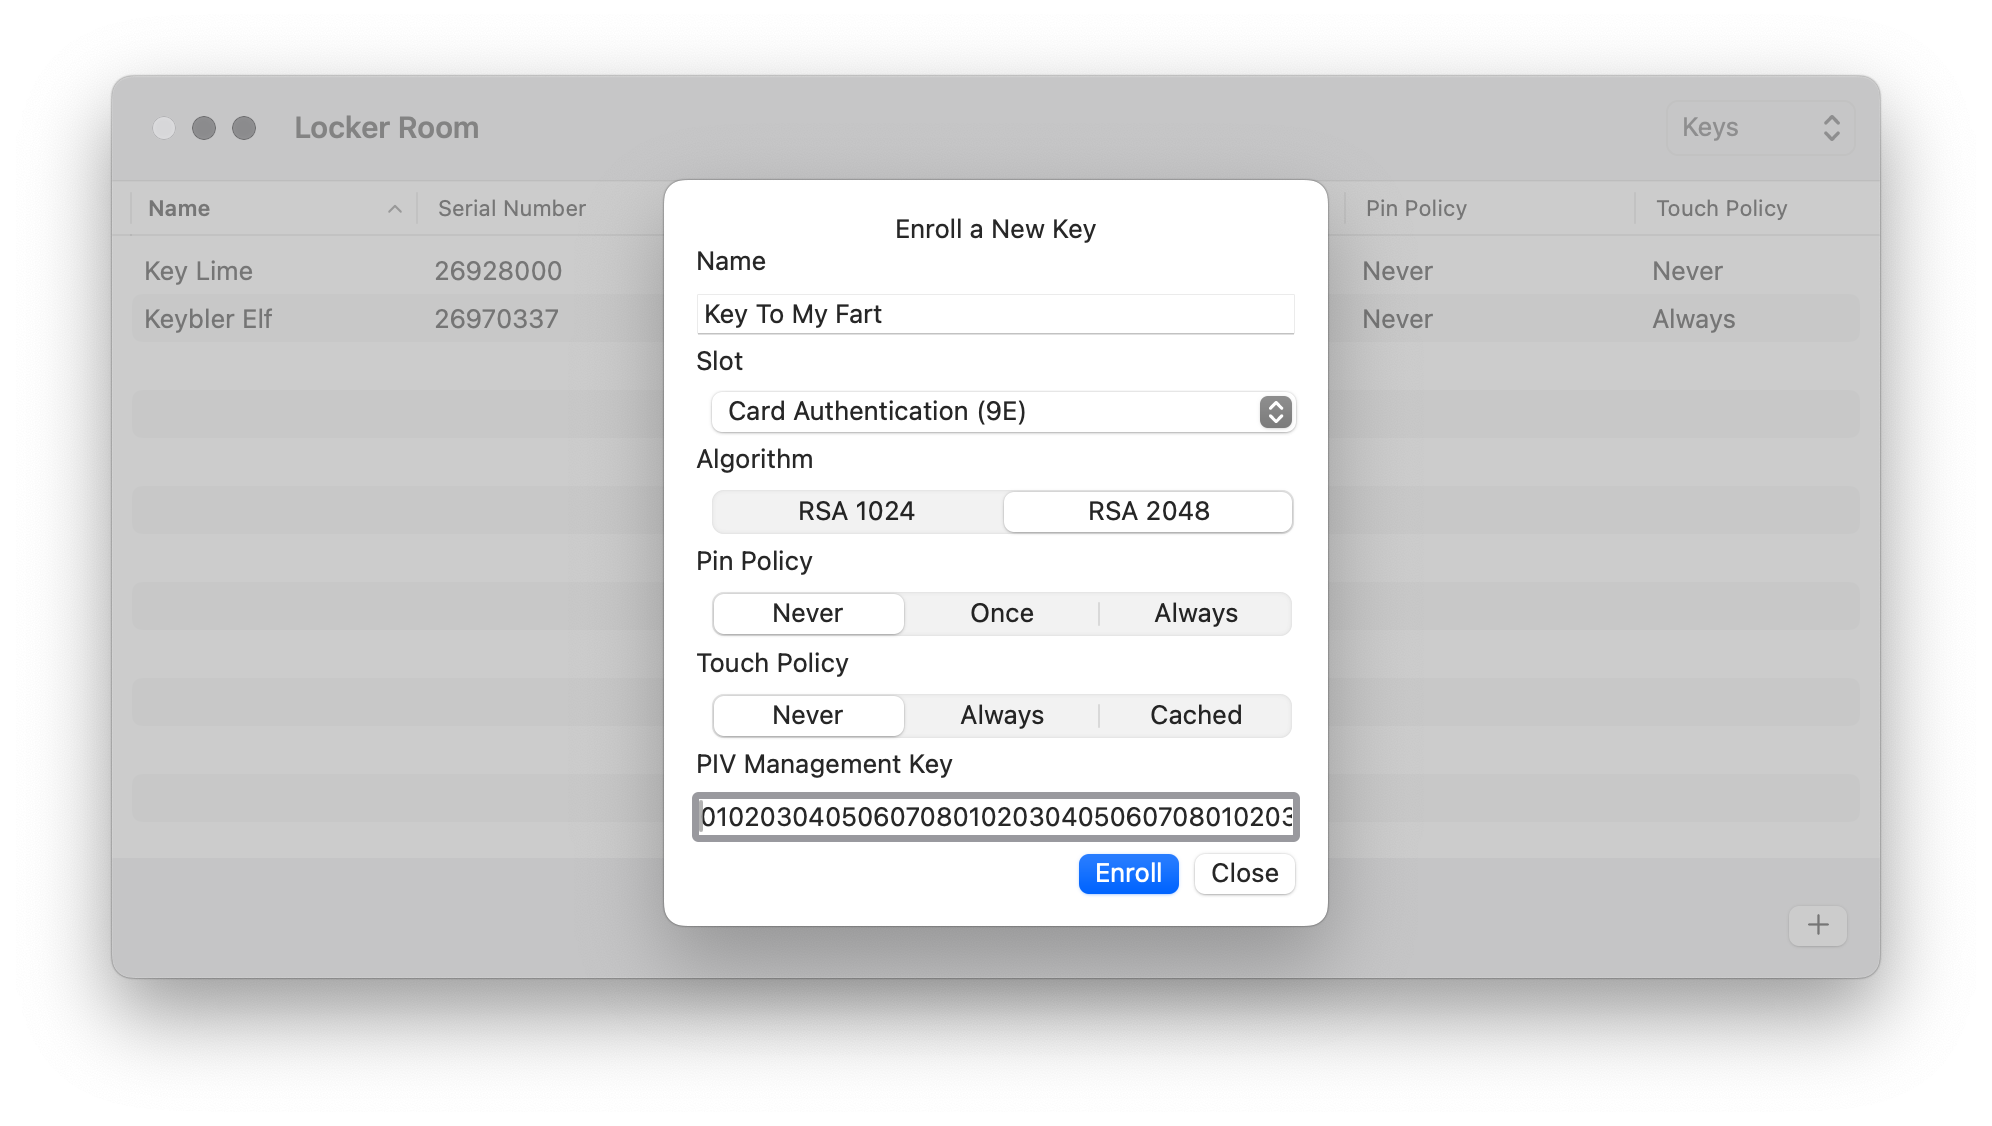
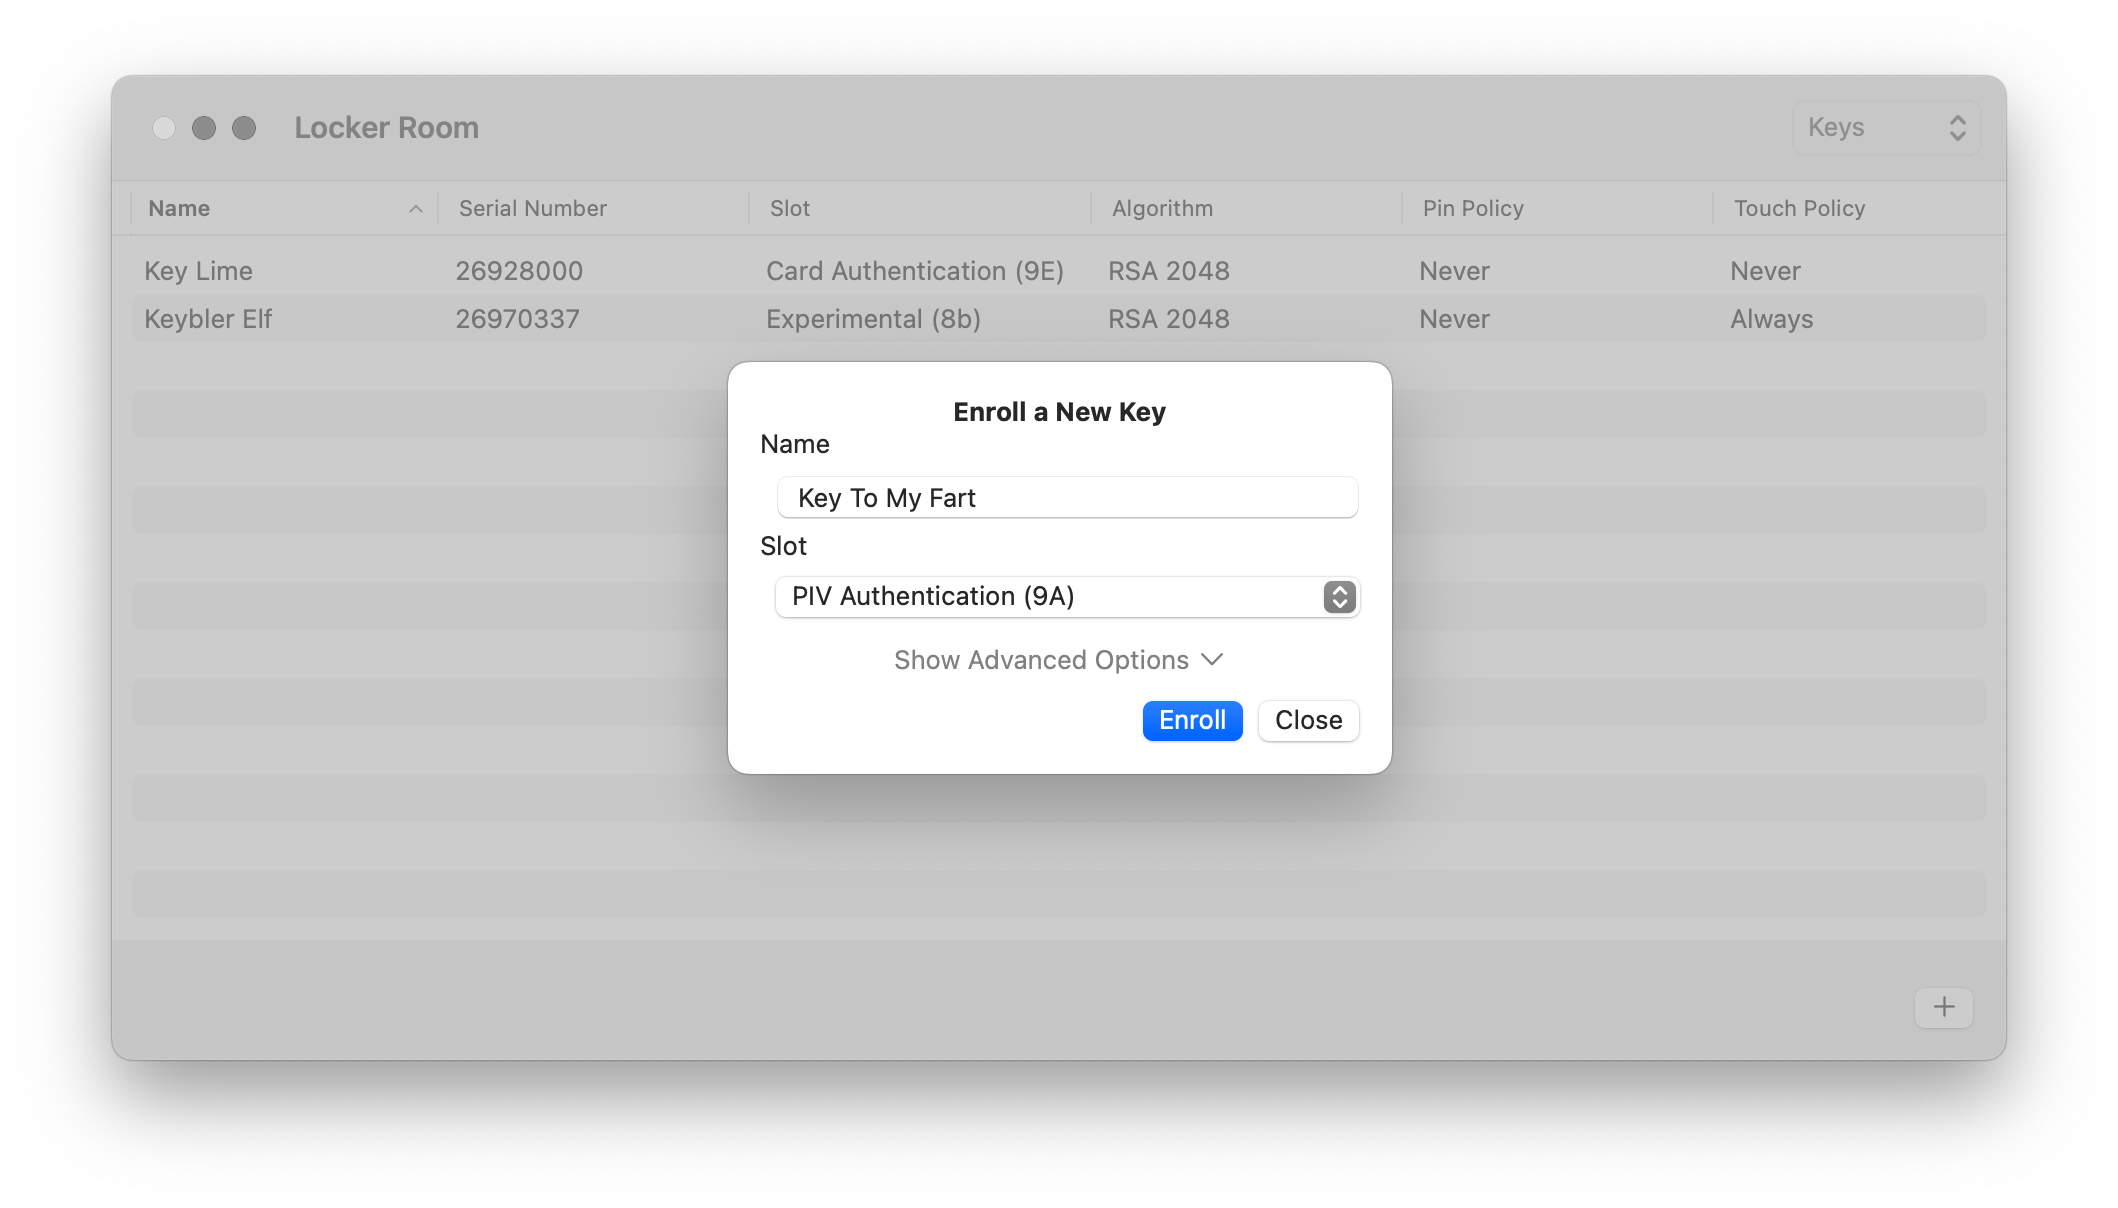
Update README with new images.

diff --git a/README.md b/README.md
@@ -18,11 +18,23 @@ While the **Lockboxes** view is selected, the plus button in the bottom-right co
 And while the **Keys** view is selected, the same plus button will instead prompt the user to enroll a new key using an external hardware device:
 ![](Images/Locker-Room-Add-Key.png)
 
-When a new lockbox is created it starts off unencrypted and a user can add files to it. There is a lock icon to the left of the lockbox name indicating its encryption state. A lockbox cannot be encrypted until at least one key has been enrolled using an external hardware device. Once a key is enrolled the external hardware device's corresponding public key is stored. The stored public key can then be used to encrypt lockboxes without the external hardware device present. By default, all enrolled key will be used when a lockbox is encrypted. A user can alternatively select specific enrolled keys to be used for encryption. Each encrypted lockbox in the **Lockboxes** view indicates which keys have been used for its encryption. 
+When a new lockbox is created it starts off unencrypted and a user can add files to it. The lock icon to the left of the lockbox name indicates whether or not it has been encrypted. A lockbox cannot be encrypted until at least one key has been enrolled using an external hardware device. Once a key is enrolled, the external hardware device's corresponding public key is stored on disk. The stored public key can then be used to encrypt lockboxes without the external hardware device present. By default, all enrolled key will be used when a lockbox is encrypted. Alternatively, a user can select specific enrolled keys to be used for encryption. Each encrypted lockbox in the **Lockboxes** view indicates which keys have been used for its encryption.
 
-To enroll a key the user must first switch to the **Keys** view and then click the plus button. A key name and PIV slot must be provided when generating the public-private key pair on the external hardware device. Advanced options for specifying the key algorithm, PIN policy, touch policy and PIV management key can be configued if needed. After the key specifications are configured, Locker Room will wait for the external hardware device to become present. Once present the key enrollment process will complete. The resulting public key is stored on disk for future encryption and the private key always remains on the external hardware device for future decryption. Newly enrolled keys will not be used to retroactively encrypt previously encrypted lockboxes and therefore the corresponding external hardware device cannot be used to decrypt previously encrypted lockboxes.
+To enroll a key the user must first switch to the **Keys** view and then click the plus button. A key name and PIV slot must be provided when generating the public-private key pair on the external hardware device. Advanced options for specifying the key algorithm, PIN policy, touch policy and PIV management key can be configued if needed:
+![](Images/Locker-Room-Add-Key-Advanced.png)
 
-A user can choose to encrypt a lockbox directly after it is created or they can choose to encrypt it later. Double-clicking an unencrypted lockbox from the list of lockboxes will prompt the user to encrypt it. And double-clicking an encrypted lockbox will prompt the user to decrypt it. Encryption does not require an external hardware device to be present because only previously enrolled keys are used. Decryption does require an external hardware device to be present because the private key stored on the external hardware device is needed for decryption. After an encrypted lockbox is selected for decryption, Locker Room will wait for an external hardware device to become present. If the lockbox was encrypted using an enrolled key corresponding to the presented external hardware device then the decryption process will complete.
+ After the key specifications are configured, Locker Room will wait for the external hardware device to become present. Once present the key enrollment process will complete. The resulting public key is stored on disk for future encryption and the private key always remains on the external hardware device for future decryption. Newly enrolled keys will not be used to retroactively encrypt previously encrypted lockboxes and therefore the corresponding external hardware device cannot be used to decrypt previously encrypted lockboxes.
+
+A user can choose to encrypt a lockbox directly after it is created or they can choose to encrypt it later. Double-clicking an unencrypted lockbox from the list of lockboxes will prompt the user to encrypt it:
+![](Images/Locker-Room-Encrypt-Lockbox.png)
+
+Selecting "Show Key Selection" will allow the use to specify which keys to use instead of using all enrolled keys for encryption:
+![](Images/Locker-Room-Encrypt-Lockbox-Key-Selection.png)
+
+And double-clicking an encrypted lockbox will prompt the user to decrypt it:
+![](Images/Locker-Room-Decrypt-Lockbox.png) 
+
+Encryption does not require an external hardware device to be present because only previously enrolled keys are used. Decryption does require an external hardware device to be present because the private key stored on the external hardware device is needed for decryption. After an encrypted lockbox is selected for decryption, Locker Room will wait for an external hardware device to become present. If the lockbox was encrypted using an enrolled key corresponding to the presented external hardware device then the decryption process will complete.
 
 ### Technical Details
 
@@ -54,19 +66,19 @@ Enrolling a key with an unsupported PIV slot is achieved by sending a [ADPU comm
 - There is no way to enter a pin if the pin policy of the enrolled key is set to anything besides `Never`.
 - Locker Room does not run in a sandbox because creating a disk image with `hdiutil` will fail.
 - Encryption and decryption routines are not properly executed on a background thread.
-- Decrypting lockbox view does not appear after a YubiKey is detected.
+- Decrypting lockbox view does not always appear after an external hardware device is detected.
 - There is no version check of the YubiKey before the YubiKey SDK is used. This may lead to unsupported commands being sent to an incompatible external hardware device.
 - Encrypted lockboxes cannot be deleted within Locker Room. But can be removed using the filesystem.
 - Enrolled keys cannot be deleted within Locker Room. But can be removed using the filesystem.
 
 ### Future Enhancements
 
-- Add unit tests.
-- Allow enrolled key deletion within Locker Room but only after there are no more encrypted lockbox it can decrypt. Keys can be removed using the filesystem and there is currently no way to remove the corresponding private key on the external hardware device. Yubico [changelogs](https://github.com/Yubico/yubico-piv-tool/blob/master/debian/changelog) suggest that YubiKey firmware 5.7.0 will add support for deleting keys.
+- 100% unit tests coverage.
+- Allow enrolled key deletion within Locker Room but only after there are no more encrypted lockbox it can decrypt. Keys can be removed using the filesystem and there is currently no way to remove the corresponding private key on the external hardware device. Yubico [changelogs](https://github.com/Yubico/yubico-piv-tool/blob/master/debian/changelog) suggests that YubiKey firmware 5.7.0 will add support for deleting keys.
 - Add localization strings for the UI.
 - Write application log messages to the Unified Logging System.
 - Encrypt and decrypt an external volume.
-- Generate keys using elliptic curve cryptography. This is blocked by YubiKey's current support for only RSA cipher text decryption.
+- Generate keys using elliptic curve cryptography. This is blocked by YubiKey's current support for RSA cipher text decryption only.
 
 ### Contact
 
